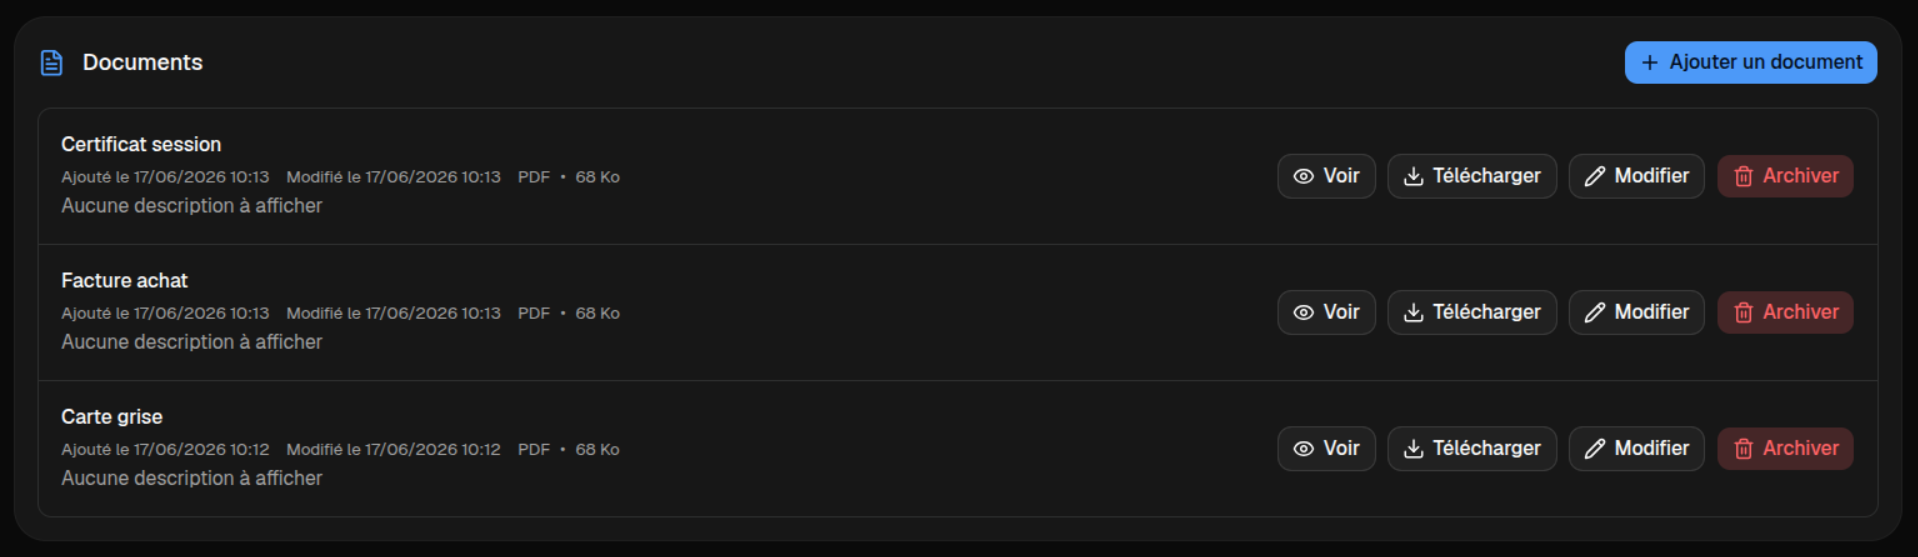
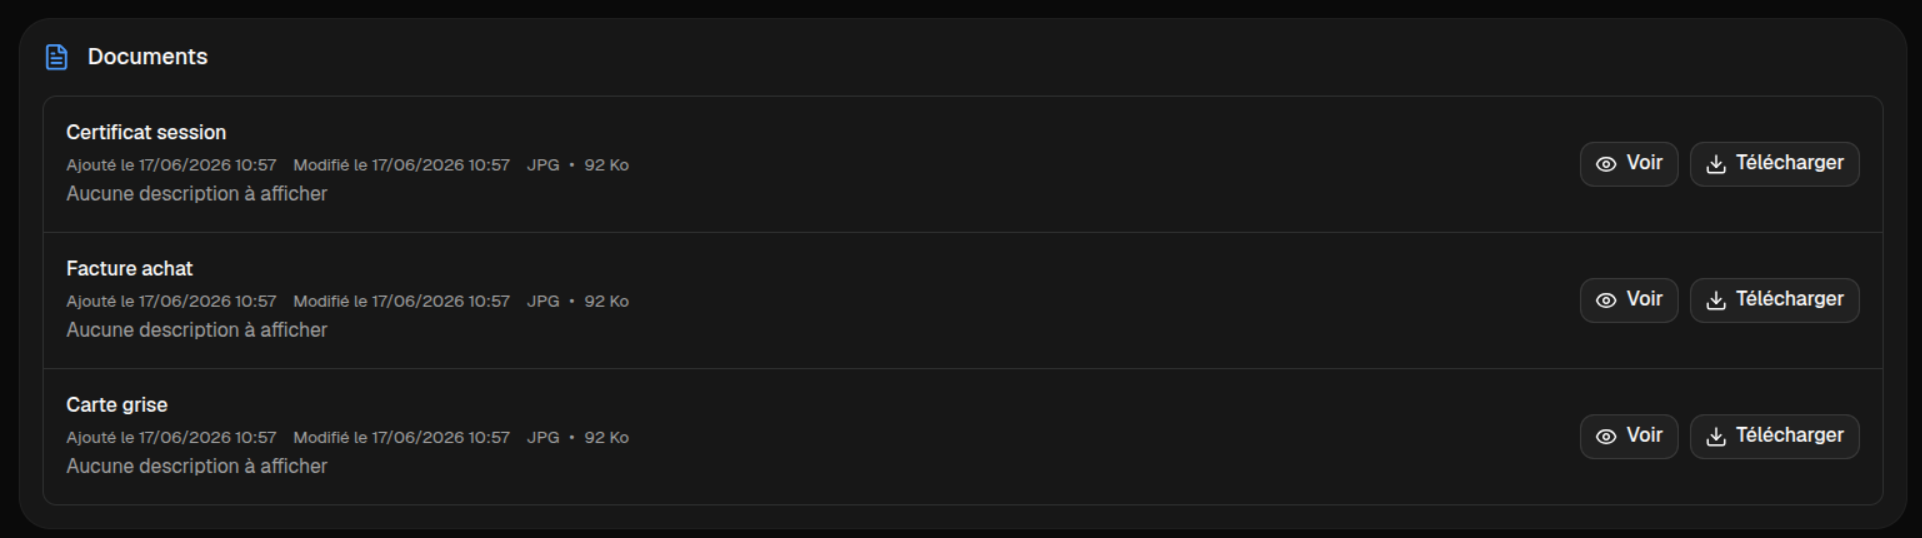
docs: move users guide and add admin screenshots

diff --git a/docs/.vitepress/config.ts b/docs/.vitepress/config.ts
@@ -27,6 +27,7 @@ export default defineConfig({
           { text: "Contrôles techniques", link: "/guide-utilisateur/controles-techniques" },
           { text: "Interventions", link: "/guide-utilisateur/interventions" },
           { text: "Stock", link: "/guide-utilisateur/stock" },
+          { text: "Utilisateurs", link: "/guide-utilisateur/utilisateurs" },
           { text: "Documents", link: "/guide-utilisateur/documents" },
           { text: "Recherche et filtres", link: "/guide-utilisateur/recherche-et-filtres" },
           { text: "Notifications", link: "/guide-utilisateur/notifications" },
@@ -38,7 +39,6 @@ export default defineConfig({
         text: "Guide administrateur",
         items: [
           { text: "Vue d'ensemble", link: "/guide-administrateur/" },
-          { text: "Utilisateurs", link: "/guide-administrateur/utilisateurs" },
           { text: "Rôles et droits", link: "/guide-administrateur/roles-et-droits" },
           { text: "Paramètres", link: "/guide-administrateur/parametres" },
           { text: "Données et suppression", link: "/guide-administrateur/donnees-et-suppression" },

diff --git a/docs/guide-utilisateur/utilisateurs.md b/docs/guide-utilisateur/utilisateurs.md
@@ -1,0 +1,110 @@
+# Utilisateurs
+
+La page **Utilisateurs** est visible par tous les comptes connectés.
+
+Elle permet de consulter l'annuaire des utilisateurs, d'ouvrir une fiche et de
+retrouver rapidement un compte par recherche ou filtre.
+
+## Liste des utilisateurs
+
+La liste affiche les comptes sous forme de cartes.
+
+Chaque carte contient :
+
+- les initiales ;
+- le nom affiché ;
+- les rôles ;
+- l'email ;
+- un badge **Vous** pour le compte connecté ;
+- un badge **Lecture seule** si le compte n'est pas modifiable par
+  l'utilisateur courant.
+
+![Liste des utilisateurs](/images/captures/utilisateurs-liste.png)
+
+## Filtres disponibles
+
+La liste propose :
+
+- une recherche par nom, email ou rôle ;
+- un filtre rôle : tous, administrateurs, utilisateurs ;
+- un filtre droit : tous, modifiables, lecture seule ;
+- un tri : nom, email ou rôle ;
+- une pagination avec choix du nombre d'éléments par page.
+
+## Fiche utilisateur
+
+La fiche utilisateur affiche :
+
+- email ;
+- identifiant interne ;
+- prénom ;
+- nom ;
+- adresse ;
+- documents associés.
+
+Les badges indiquent les rôles et le compte courant.
+
+![Fiche utilisateur](/images/captures/utilisateur-detail.png)
+
+## Modifier un utilisateur
+
+Les droits de modification dépendent du profil connecté :
+
+- un utilisateur standard peut modifier son propre profil via la page
+  **Profil** ;
+- un administrateur peut modifier tous les comptes depuis la liste ou la fiche
+  utilisateur.
+
+Les informations modifiables par un administrateur sont :
+
+- prénom ;
+- nom ;
+- email ;
+- rôles ;
+- adresse ;
+- documents associés depuis la fiche.
+
+![Formulaire utilisateur](/images/captures/utilisateur-formulaire.png)
+
+## Créer un utilisateur
+
+La création est réservée aux administrateurs.
+
+Depuis la liste, cliquez sur **Ajouter un utilisateur**.
+
+Champs obligatoires :
+
+- prénom ;
+- nom ;
+- email ;
+- adresse ;
+- code postal ;
+- ville ;
+- pays.
+
+Le rôle **Utilisateur** est toujours présent. Le rôle **Administrateur** peut
+être coché si le compte doit accéder aux fonctions d'administration.
+
+À la création, l'application indique qu'un email de définition du mot de passe
+sera envoyé à l'utilisateur.
+
+Des documents peuvent être attachés au compte lors de la création.
+
+## Archiver un utilisateur
+
+L'action **Supprimer** est réservée aux administrateurs.
+
+Elle archive l'utilisateur et le masque de la plateforme sans supprimer
+physiquement ses données.
+
+Un administrateur ne peut pas supprimer son propre compte administrateur depuis
+l'interface.
+
+![Confirmation de suppression utilisateur](/images/captures/admin-utilisateur-suppression.png)
+
+## Bonnes pratiques
+
+- Éviter les comptes partagés.
+- Vérifier l'adresse email avant création.
+- Attribuer le rôle administrateur uniquement aux personnes qui en ont besoin.
+- Archiver les comptes qui ne doivent plus accéder à l'application.

diff --git a/docs/guide-administrateur/parametres.md b/docs/guide-administrateur/parametres.md
@@ -5,6 +5,8 @@ formulaires métier.
 
 Elle est accessible uniquement aux administrateurs depuis la barre latérale.
 
+![Page configuration](/images/captures/admin-configuration.png)
+
 ## Référentiels disponibles
 
 La page contient trois panneaux :
@@ -19,6 +21,8 @@ Chaque panneau affiche un compteur, une recherche et un bouton **Ajouter**.
 
 Les types d'entretiens sont utilisés dans les interventions.
 
+![Types d'entretiens](/images/captures/admin-configuration-types-entretiens.png)
+
 Exemples : vidange, pneus, freinage, révision, distribution.
 
 Champs disponibles :
@@ -26,12 +30,16 @@ Champs disponibles :
 - nom, obligatoire ;
 - description.
 
+![Formulaire de type de configuration](/images/captures/admin-configuration-type-formulaire.png)
+
 Lorsqu'un type est supprimé, il n'est plus proposé dans les formulaires, mais il
 reste visible sur les interventions existantes.
 
 ## Types de pièces
 
 Les types de pièces structurent le stock.
+
+![Types de pièces](/images/captures/admin-configuration-type-pieces.png)
 
 Exemples : filtre à huile, pneu, plaquette de frein, batterie.
 
@@ -47,6 +55,8 @@ type.
 
 Les centres sont proposés dans le formulaire de contrôle technique.
 
+![Centres de contrôle technique](/images/captures/admin-configuration-centres.png)
+
 Champs disponibles :
 
 - nom, obligatoire ;
@@ -60,6 +70,8 @@ Champs disponibles :
 
 Le téléphone est formaté automatiquement sur 10 chiffres. Le code postal accepte
 uniquement des chiffres et est limité à 5 caractères.
+
+![Formulaire centre de contrôle](/images/captures/admin-centre-controle-formulaire.png)
 
 Quand un centre est supprimé, il n'est plus proposé dans les formulaires, mais
 reste visible sur les contrôles techniques existants.
@@ -83,6 +95,8 @@ Les éléments peuvent apparaître avec un badge :
 
 Les éléments supprimés ne proposent plus les actions de modification ou de
 suppression.
+
+![Confirmation de suppression d'un référentiel](/images/captures/admin-configuration-suppression.png)
 
 ## Bonnes pratiques
 

diff --git a/docs/guide-administrateur/index.md b/docs/guide-administrateur/index.md
@@ -10,7 +10,6 @@ maintenance courantes.
 
 Un administrateur peut notamment :
 
-- créer, modifier et archiver des utilisateurs ;
 - attribuer ou retirer le rôle administrateur ;
 - gérer les référentiels métier utilisés dans les formulaires ;
 - gérer les lignes de stock ;
@@ -23,7 +22,6 @@ Un administrateur peut notamment :
 
 Les entrées principales sont :
 
-- **Utilisateurs** dans la barre latérale ;
 - **Configuration** en bas de la barre latérale ;
 - les actions d'administration visibles dans les fiches métier.
 
@@ -40,7 +38,6 @@ Le lien **Configuration** n'est affiché que pour les administrateurs.
 ## Parcours conseillé
 
 1. Lire [Rôles et droits](./roles-et-droits.md).
-2. Configurer les [utilisateurs](./utilisateurs.md).
-3. Maintenir les [paramètres](./parametres.md) métier.
-4. Comprendre la [suppression logique](./donnees-et-suppression.md).
-5. Appliquer les contrôles de [maintenance](./maintenance.md).
+2. Maintenir les [paramètres](./parametres.md) métier.
+3. Comprendre la [suppression logique](./donnees-et-suppression.md).
+4. Appliquer les contrôles de [maintenance](./maintenance.md).

diff --git a/docs/guide-utilisateur/index.md b/docs/guide-utilisateur/index.md
@@ -33,5 +33,6 @@ Quand une donnée est visible mais non modifiable, l'interface affiche un badge
 4. Consulter le [dashboard](./tableau-de-bord.md).
 5. Suivre les [véhicules](./vehicules.md), [interventions](./interventions.md),
    [assurances](./assurances.md) et [contrôles techniques](./controles-techniques.md).
-6. Utiliser le [stock](./stock.md) et les [documents](./documents.md).
+6. Utiliser le [stock](./stock.md), les [utilisateurs](./utilisateurs.md) et les
+   [documents](./documents.md).
 7. Mettre à jour son [compte utilisateur](./compte-utilisateur.md).

diff --git a/docs/guide-administrateur/donnees-et-suppression.md b/docs/guide-administrateur/donnees-et-suppression.md
@@ -58,6 +58,8 @@ restaurées dans le stock.
 Un document archivé est masqué de la ressource. Le fichier n'est plus proposé
 dans le panneau Documents.
 
+![Actions administrateur sur les documents](/images/captures/admin-document-actions.png)
+
 ### Référentiels
 
 Un type de pièce ou un centre de contrôle peut être conservé sur les données

diff --git a/docs/guide-utilisateur/documents.md b/docs/guide-utilisateur/documents.md
@@ -69,6 +69,8 @@ fichiers peuvent être ouverts dans un nouvel onglet ou téléchargés.
 
 ![Aperçu document](/images/captures/document-apercu.png)
 
+![Actions administrateur sur les documents](/images/captures/admin-document-actions.png)
+
 ## Accès sécurisé
 
 L'accès aux fichiers est authentifié.

diff --git a/docs/guide-utilisateur/stock.md b/docs/guide-utilisateur/stock.md
@@ -6,6 +6,8 @@ les véhicules.
 Les utilisateurs peuvent consulter le stock. Les administrateurs peuvent créer,
 modifier, supprimer et ajouter des quantités.
 
+![Actions administrateur sur le stock](/images/captures/admin-stock-actions.png)
+
 ## Liste du stock
 
 Chaque carte de stock affiche :

diff --git a/docs/guide-utilisateur/vehicules.md b/docs/guide-utilisateur/vehicules.md
@@ -120,3 +120,5 @@ L'action **Supprimer** archive le véhicule. Elle ne supprime pas définitivemen
 les données.
 
 Cette action est réservée aux administrateurs.
+
+![Actions administrateur sur un véhicule](/images/captures/admin-vehicule-actions.png)
